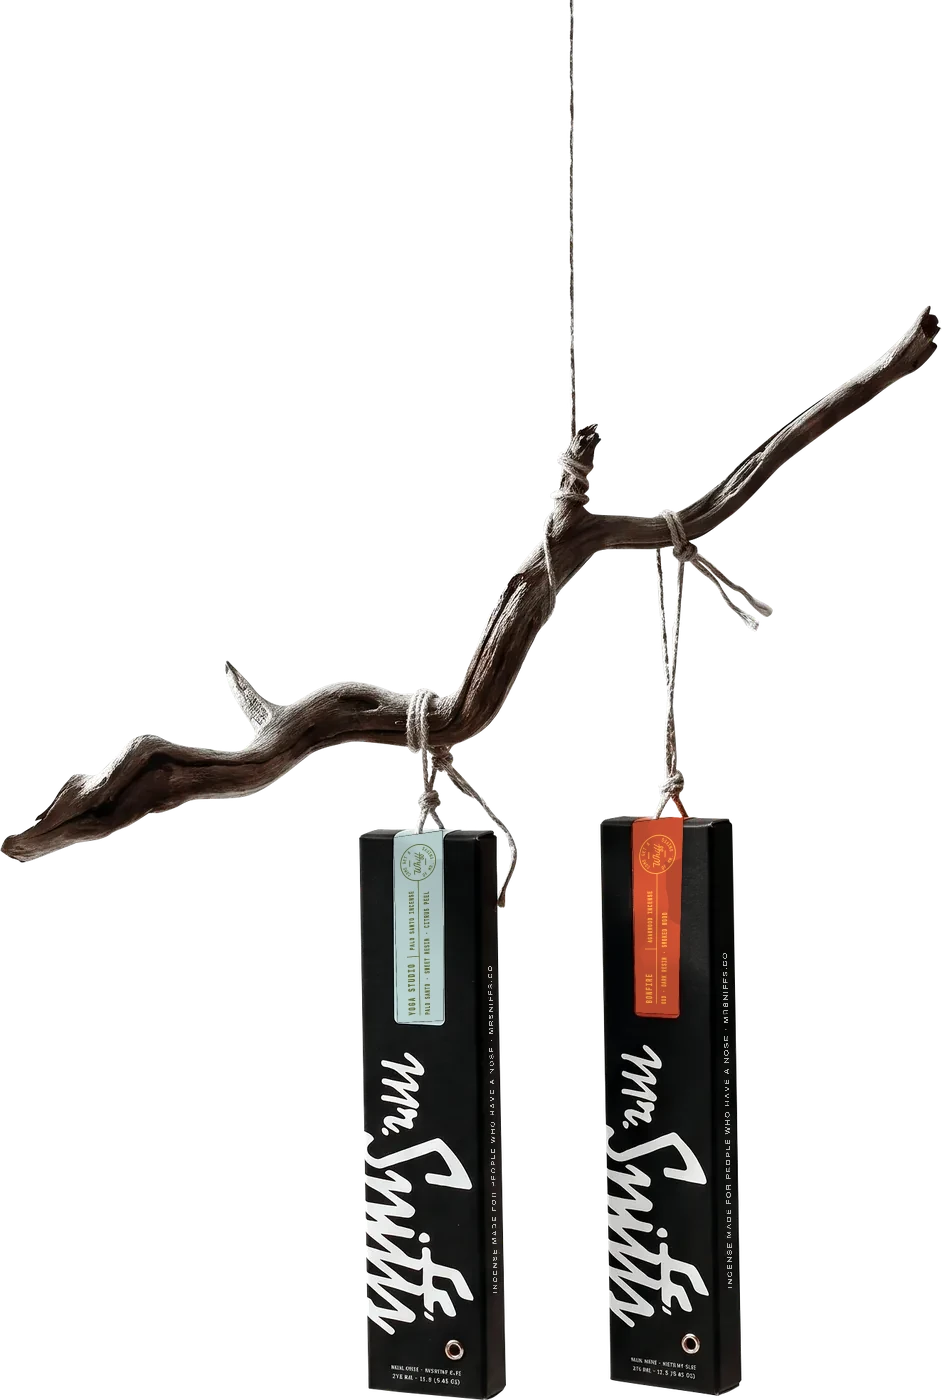
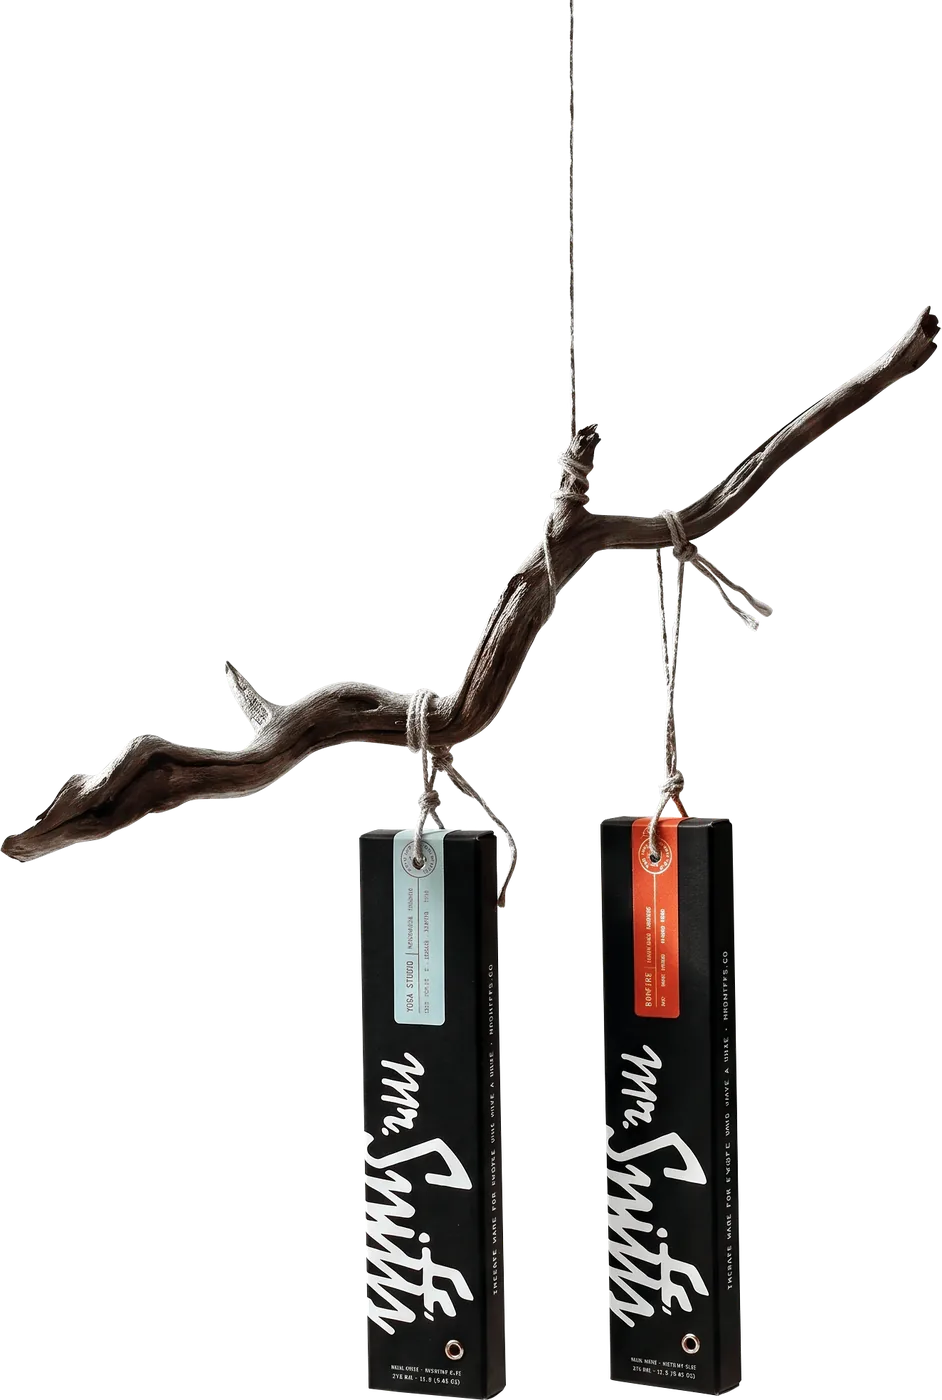
Revert five retouched photos to their originals
howto-care, smell-hero, shop-duo, duo-branch, pdp-lineup-duo

Claude-Session: https://claude.ai/code/session_018sbhs56ehqqzLbZEBXg3e9

diff --git a/BUILD-LIST.md b/BUILD-LIST.md
@@ -53,8 +53,8 @@ Style source: Figma file "Mr. Sniff's Style Guide + Emails" (tokens, type styles
 
 - Logo renders small on How to Use in Chrome.
 - Upside-down product photo on the PDP gallery.
-- Product photography: the real box prints the wordmark and the label in opposite reading directions, so a horizontal shot can show one upright, never both. Retouched shots favour the wordmark (`pdp-smell-bg`, `howto-care`). Reshoot or packaging fix if that matters.
-- AI type artifacts cleaned (Nov 23): scent labels on every product and scene shot, the side line ("INCENSE MADE FOR PEOPLE WHO HAVE A NOSE · MRSNIFFS.CO") on `shop-duo`, `story/why-2`, `duo-branch`, `howto`, and the base copy on `shop-duo` and `hero`. Base copy on the other shots is too small to read and left as is.
+- Product photography: the real box prints the wordmark and the label in opposite reading directions, so a horizontal shot can show one upright, never both. Retouched shots favour the wordmark (`pdp-smell-bg`); `howto-care` is back to the original. Reshoot or packaging fix if that matters.
+- AI type artifacts cleaned (Nov 23): scent labels on every product and scene shot, the side line ("INCENSE MADE FOR PEOPLE WHO HAVE A NOSE · MRSNIFFS.CO") on `story/why-2` and `howto`, and the base copy on `hero`. Reverted to originals at Chris's call (Nov 24): `howto-care`, `smell-hero`, `shop-duo`, `duo-branch`, `pdp-lineup-duo`. Base copy on the other shots is too small to read and left as is.
 - Holder stock: homepage/Figma shows Ash Catchum and Brass Monkey sold out, Stachin' Ash in stock. All product pages now follow that; the homepage footnote still says all three are sold out.
 - Mono45 Headline license files still missing (DM Mono stands in).
 - ~~Copy conflict~~ Resolved Nov 24: homepage and How to Use now match the PDPs (real wood, sun-dried, nothing poured on top). Check the emails say the same.
